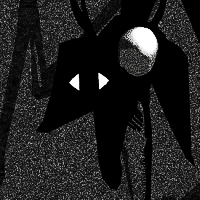
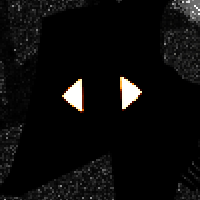
brame: images & placement

diff --git a/actualpages/2026-09-27-brame/index.html b/actualpages/2026-09-27-brame/index.html
@@ -39,13 +39,13 @@ grid:
     alt: >-
       An antler from an album cover.
   
-  - url: "https://pinatajournal.wiki/wiki/File:Taffly_Concept.png"
+  - url: "https://www.reddit.com/r/VivaPinata/comments/w1wcas/texture_glitches_have_some_strange_results/"
     img: "diptera"
     alt: >-
       A fly-like critter from a video game.
   
-  - url: "https://a-flyleaf.github.io/art-2026/brame"
-    img: "dorceless"
+  - url: "https://www.youtube.com/watch?v=Td2x8s9GZlo"
+    img: "thalassin"
     alt: >-
       A sunken hollow where a face should be.
 ---
@@ -56,8 +56,6 @@ grid:
 	*{box-sizing:border-box; font-size:100%; margin:0; padding:0;}
 	.x{position:absolute; left:-999px; width:1px; height:1px; top:auto; overflow:hidden;}
 	img{max-width:100%; height:auto;}
-	/*DELETE IF UNUSED*/summary{cursor:pointer;}
-	a:focus,summary:focus{outline:/*DEFINE*/;}
 	
 	/*riffed from art-2026/brame*/
 	body{background:#000; color:#fff; font-family:'courier new',courier,monospace; padding:1em; background-image:url(actualpages/2026-09-27-brame/static.png); background-attachment:fixed;}
@@ -70,10 +68,29 @@ grid:
 	li{overflow:hidden;}
 	
 	#b1{grid-area:2/2;}
+	/*
 	#b2{grid-area:1/1;}
+	#b3{grid-area:3/3;}
+	#b4{grid-area:2/1;}
+	#b5{grid-area:2/3;}
+	#b6{grid-area:1/3;}
+	#b7{grid-area:3/1;}
+	*/
 	
-	#grid a{opacity:.5;}
-	#grid a:hover,#grid a:active,#grid a:focus{opacity:1;}
+	#grid a{opacity:.25;}
+	#grid a:hover,#grid a:active,#grid a:focus{opacity:.5;}
+	#b1 a{opacity:.5;} #b1 a:hover,#b1 a:active,#b1 a:focus{opacity:1;}
+	#b2,#b3,#b4,#b5,#b8{filter:invert(100%);}
+		#b2 ::selection,#b3 ::selection,#b4 ::selection,#b5 ::selection,#b8 ::selection{background:#fff;}
+	#b1 ::selection{background:0;}
+	
+	#b2{grid-area:3/2;}
+	#b3{grid-area:1/3;}
+	#b4{grid-area:1/2;}
+	#b5{grid-area:3/3;}
+	#b6{grid-area:3/1;}
+	#b8{grid-area:2/3;}
+	
 </style>
 </head><body>
 <h1>{{page.title}}</h1>
